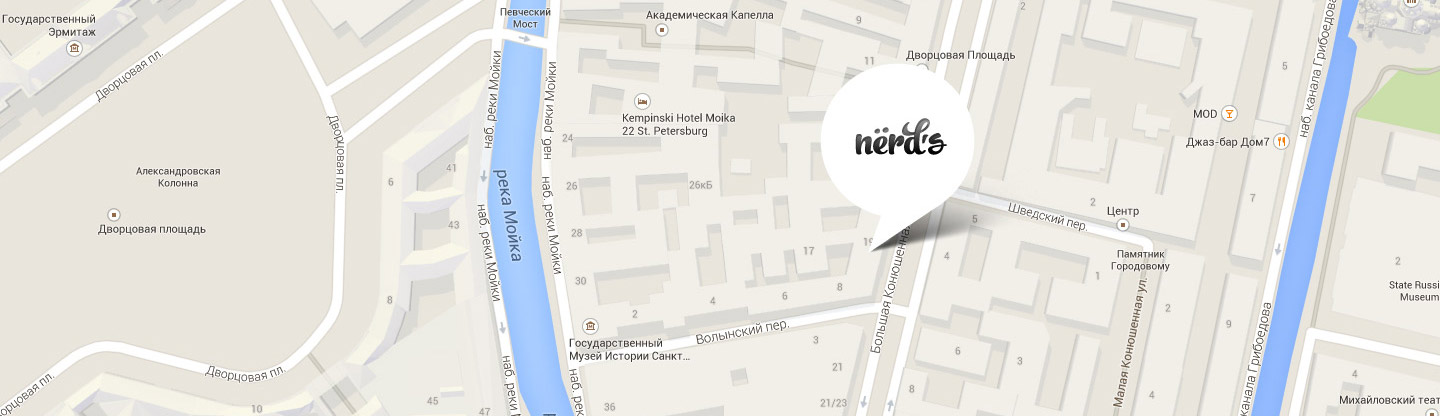
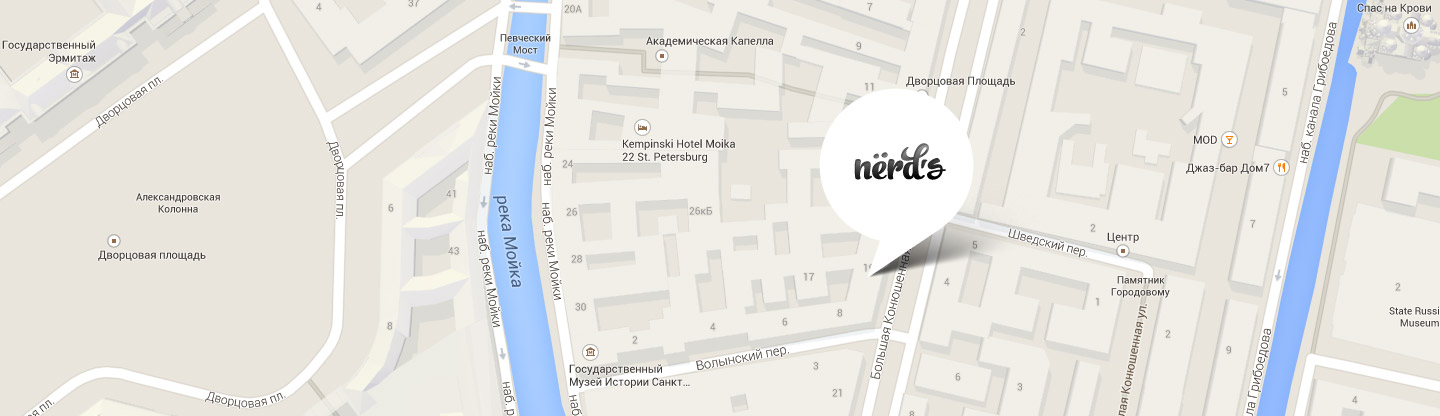
Декоративные правки
Подправил код, карту, иконки

diff --git a/catalog.html b/catalog.html
@@ -18,7 +18,7 @@
   			<ul class="site-navigation">
   				<li><a href=#>Студия</a></li>
   				<li><a href=#>Клиенты</a></li>
-  				<li><a href="catalog.html">Магазин</a></li>
+  				<li><a class="active-page" href="catalog.html">Магазин</a></li>
   				<li><a href=#>Контакты</a></li>
 
   			</ul>
@@ -92,9 +92,10 @@
 					<li><a class="for-price" href="#">По цене</a></li>
 					<li><a href="#">По типу</a></li>
 					<li><a href="#">По названию</a></li>
+					<li><a class="sorting-down" href="#">По убыванию</a> <a class="sorting-up" href="#">По возрастанию</a></li>
 				</ul>
 				</div>
-				<div class="item" tabindex="0";>
+				<div class="item" tabindex="0">
 						
 						<img src="img/img-sedona.jpg" alt="шаблон Sedona" width="360" height="576">
 						<div class="item-info">
@@ -172,7 +173,7 @@
 		
 		
 		<section class="map">
-			<iframe src="https://www.google.com/maps/embed?pb=!1m18!1m12!1m3!1d1998.5991043651595!2d30.320894616394252!3d59.93879418187624!2m3!1f0!2f0!3f0!3m2!1i1024!2i768!4f13.1!3m3!1m2!1s0x4696310fca5afc31%3A0x84639e3d00b85f75!2sfrontend+developer!5e0!3m2!1sru!2s!4v1512477777959" width="1440" height="416" frameborder="0" style="border:0" allowfullscreen></iframe>
+			<iframe src="https://www.google.com/maps/embed?pb=!1m18!1m12!1m3!1d1998.5991043651595!2d30.320894616394252!3d59.93879418187624!2m3!1f0!2f0!3f0!3m2!1i1024!2i768!4f13.1!3m3!1m2!1s0x4696310fca5afc31%3A0x84639e3d00b85f75!2sfrontend+developer!5e0!3m2!1sru!2s!4v1512477777959" width="100%" height="416" frameborder="0" style="border:0" allowfullscreen></iframe>
 			
 			
 			
@@ -184,11 +185,11 @@
 				
 					<b>Напишите нам</b>
 					<label for="user-name"><span>Ваше имя:</span>
-						<input type="text" name="name" id="user-name" pattern="^[А-Яа-яЁё\s]+$" placeholder="Представьтесь, пожалуйста">
+						<input type="text" name="name" id="user-name" pattern="^[А-Яа-яЁё\s]+$" placeholder="Представьтесь, пожалуйста" required>
 					</label>
 					
 					<label for="user-email"><span>Ваш e-mail:</span>
-						<input type="email" name="email" id="user-email" placeholder="Для отправки ответа">
+						<input type="email" name="email" id="user-email" placeholder="Для отправки ответа" required>
 					</label>
 					
 					<label for="user-message"><span>Текст письма:</span>
@@ -231,7 +232,7 @@
 	</footer>
 	
 	
-	<script src="script.js"></script>
+	<script src="js/script.js"></script>
   </body>
 </html>
 

diff --git a/css/style.css b/css/style.css
@@ -2,7 +2,7 @@
 body {
 	margin: 0;
 	padding: 0;
-	
+	min-width: 1200px;
 
 	font-family: "Roboto", Arial, sans-serif;
 	font-size: 16px;
@@ -136,13 +136,7 @@ img {
 	width: 120px;
 }
 
-.shopping-bag:active {
-	padding-bottom: 7px;
-	box-shadow:
-		0px 2px 0 0 #fb565a;
-	
 
-}
 
 .shopping-bag::before {
 	content:"";
@@ -638,6 +632,7 @@ table .percent {
 	position: absolute;
 	box-sizing: border-box;
 	padding-left: 50px;
+
 	top: -435px;
 	left: 20px;
 	width: 319px;
@@ -652,7 +647,8 @@ div.contacts b {
 	line-height: 30px;
 	font-weight: bold;
 	margin: 0;
-	margin-bottom: 27px;
+	margin-top: 0px;
+	margin-bottom: 22px;
 	
 }
 
@@ -1055,7 +1051,8 @@ ul.social-link {
 	
 
 .sorting-type {
-		padding-top: 2px;
+
+		padding-top: 4px;
 		margin-bottom: 24px;
 }
 
@@ -1110,6 +1107,7 @@ ul.social-link {
 .sorting {
 	position: relative;
 	display: flex;
+	
 	flex-wrap: wrap;
 	margin: 0;
 	padding: 0;
@@ -1121,27 +1119,48 @@ ul.social-link {
 	
 }
 
-.sorting::before {
-	content:"";
-	position: absolute;
-	top: 2px;
-	right: 30px;
-	width: 12px;
-	height: 12px;
-	background-image: url("../img/icon-down-dir.svg");
-	background-repeat: no-repeat;
+.sorting li:not(:last-child) {
+	margin-right: 26px;
 }
 
-.sorting::after {
-	content:"";
-	top: 2px;
-	right: 0px;
+.sorting li:last-child {
+	margin-left: auto;
+}
+
+
+.sorting-up {
+	display: inline-block;
 	width: 12px;
 	height: 12px;
-	position: absolute;
+	font-size: 0;
 	background-image: url("../img/icon-up-dir.svg");
 	background-repeat: no-repeat;
-	opacity: 0.3;
+	opacity: 0.2;
+	
+}
+
+.sorting-down {
+	display: inline-block;
+
+	margin-right: 12px;
+	width: 12px;
+	height: 12px;
+	font-size: 0;
+	background-image: url("../img/icon-down-dir.svg");
+	background-repeat: no-repeat;
+	opacity: 0.2;
+}
+
+.sorting-up:hover,
+.sorting-down:hover {
+	fill: #a6a6a6;
+
+}
+
+.sorting-up:active,
+.sorting-down:active {
+	opacity: 1;
+
 }
 
 
@@ -1164,9 +1183,7 @@ ul.social-link {
 	opacity: 1;
 }
 
-.sorting li {
-	margin-right: 26px;
-}
+
 
 .sorting a {
 	opacity: 0.3;
@@ -1370,9 +1387,12 @@ ul.service-item {
 
 }
 
+
+
 .list-clients li:last-child {
 	position: relative;
-	margin-left: 32px;
+	margin-left: 35px;
+	margin-top: 2px;
 
 }
 
@@ -1393,6 +1413,7 @@ ul.service-item {
 	position: relative;
 	margin-top: 75px;
 	display: flex;
+	margin-bottom: 70px;
 
 }
 

diff --git a/index.html b/index.html
@@ -144,7 +144,7 @@
 		</section>
 		
 		<section class="map">
-			<iframe src="https://www.google.com/maps/embed?pb=!1m18!1m12!1m3!1d1998.5991043651595!2d30.320894616394252!3d59.93879418187624!2m3!1f0!2f0!3f0!3m2!1i1024!2i768!4f13.1!3m3!1m2!1s0x4696310fca5afc31%3A0x84639e3d00b85f75!2sfrontend+developer!5e0!3m2!1sru!2s!4v1512477777959" width="1440" height="416" frameborder="0" style="border:0" allowfullscreen></iframe>
+			<iframe src="https://www.google.com/maps/embed?pb=!1m18!1m12!1m3!1d1998.5991043651595!2d30.320894616394252!3d59.93879418187624!2m3!1f0!2f0!3f0!3m2!1i1024!2i768!4f13.1!3m3!1m2!1s0x4696310fca5afc31%3A0x84639e3d00b85f75!2sfrontend+developer!5e0!3m2!1sru!2s!4v1512477777959" width="100%" height="416" frameborder="0" style="border:0" allowfullscreen></iframe>
 			
 			<div class="modal">
 			
@@ -152,11 +152,11 @@
 				
 					<b>Напишите нам</b>
 					<label for="user-name"><span>Ваше имя:</span>
-						<input type="text" name="name" id="user-name" pattern="^[А-Яа-яЁё\s]+$" placeholder="Представьтесь, пожалуйста">
+						<input type="text" name="name" id="user-name" pattern="^[А-Яа-яЁё\s]+$" placeholder="Представьтесь, пожалуйста" required>
 					</label>
 					
 					<label for="user-email"><span>Ваш e-mail:</span>
-						<input type="email" name="email" id="user-email" placeholder="Для отправки ответа">
+						<input type="email" name="email" id="user-email" placeholder="Для отправки ответа" required>
 					</label>
 					
 					<label for="user-message"><span>Текст письма:</span>
@@ -200,7 +200,7 @@
 		</footer>
 
 
-    <script src="script.js"></script>
+    <script src="js/script.js"></script>
   </body>
 </html>
 
